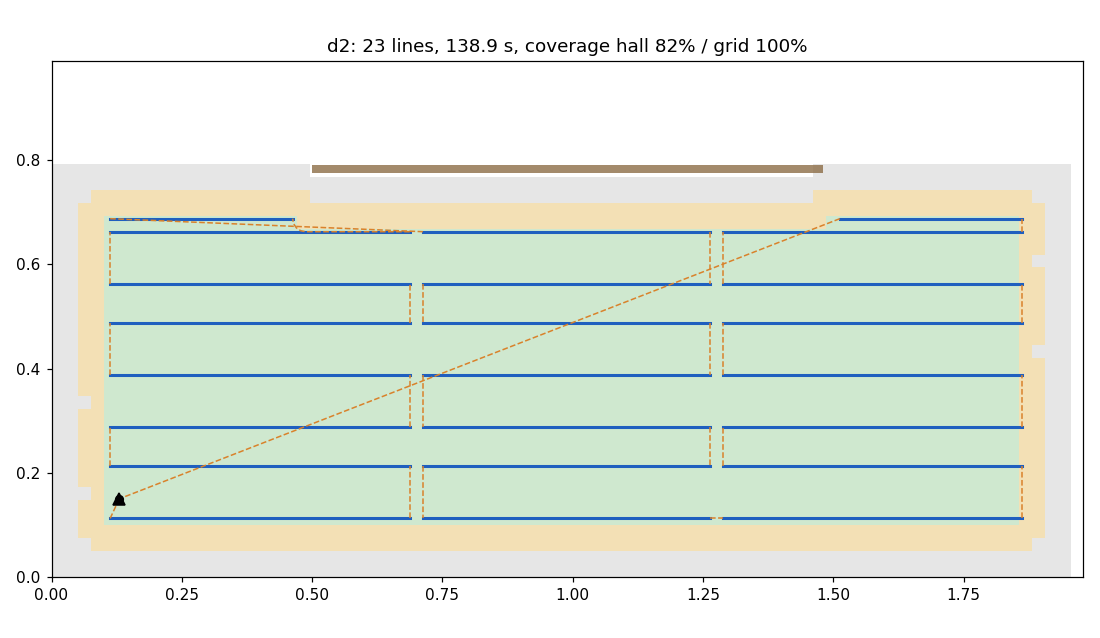
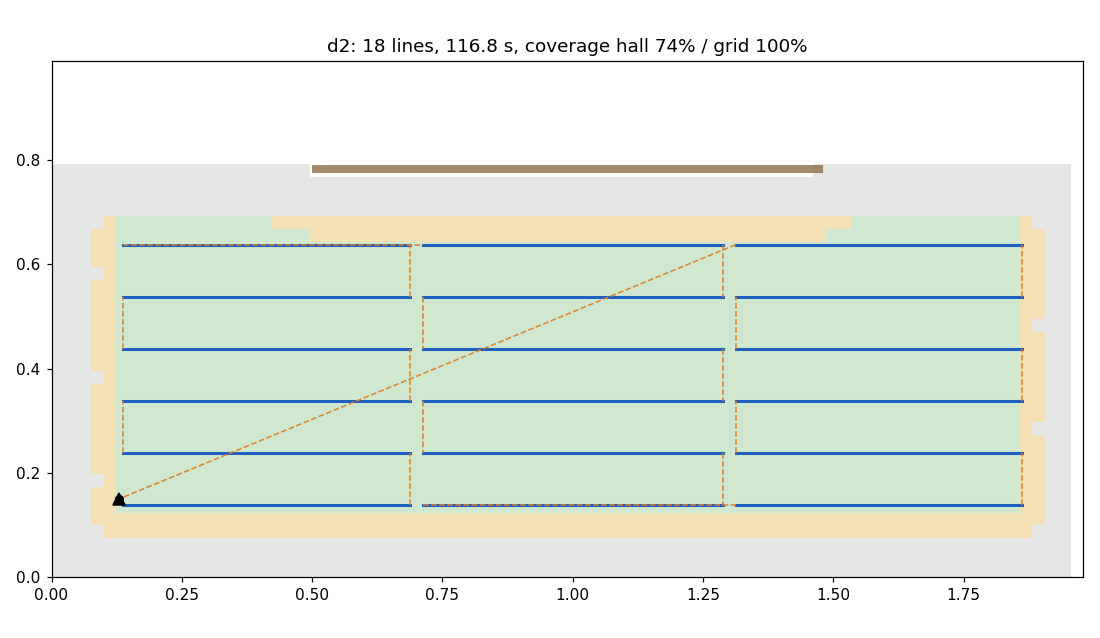
docs(cleaner): 여유 3 cm·영역 셋 기록과 headless 비교
- docs/report_2026-11-25_cleaner_three_regions.md: 닿은 곳, 경로 규칙, 관제 결함 셋, headless v7 60판·d2 20판, 시험과 느슨해진 기준, 남은 것
- docs/청소_로봇.md: 방법, 파라미터, 결과, 운영 설명을 지금 경로에 맞춤
- docs/img/coverage_v7.png, coverage_d2.png: 지금 경로

diff --git a/docs/report_2026-11-25_cleaner_three_regions.md b/docs/report_2026-11-25_cleaner_three_regions.md
@@ -1,0 +1,176 @@
+# 청소 로봇: 벽·진열대 여유 3 cm, 영역 셋, 짧은 줄 없애기, 비킬 자리와 집으로 가는 길 고침 (2026-11-25)
+
+브랜치 `feat/cleaner-region-wait-2026-11-25`(7637fdce 위). main에는 합치지 않았다. 앞 기록은
+`docs/report_2026-11-25_cleaner_region_wait.md`이고, 경로와 관제의 지금 설명은 `docs/청소_로봇.md`다.
+
+사용자 요청(11-25, Gazebo에서 청소 로봇이 진열대에 닿은 뒤):
+
+- "여유를 더두게 하면되잖아 혹시 도크때문에그런가?"
+- "영역을 나누니까 너무 회전이 많아보여 그냥 통로 왼쪽 기준 넓은 공간 구역 하나 그리고 통로쪽 위아래로 하나씩해서 총3개로"
+- "0번 6번 27번같은 짧은 구간은 왜있는거야? 너무 쓸데없이 움직이는거같은데"
+
+## 요약
+
+- **여유:** 청소 경로가 벽과 진열대에서 3 cm(전 1 cm) 떨어진다. 다른 구역 경계와 `keepout_extra`는 1 cm 그대로다.
+  v7 경로와 진열대 사이 최소 거리가 0.0934 m에서 0.1131 m로 늘었다(몸과의 틈 1.0 cm → 3.0 cm).
+- **영역:** v7은 지도 `clean_regions`에 적은 사각형 셋이다: 진열대 서쪽 넓은 곳, 위 통로, 아래 통로.
+- **줄:** 0.20 m보다 짧은 줄과 다른 줄이 이미 덮는 곳만 덮는 줄은 긋지 않는다. 0.60 m보다 긴 줄은 방향을 바꾸지
+  않고 이어지는 구간으로 나눈다. v7은 28줄 139.0 s에서 14줄 83.5 s가 됐다(혼자 도는 한 바퀴, 회전 제외).
+- **관제 결함 셋을 고쳤다.** 비킬 자리를 곧은 거리로 골라 진열대 건너편으로 돌아가던 것, 운반 로봇이 쥔 지점
+  옆에 선 채 집으로도 피하지 못하던 것, 집으로 가는 곧은 길이 주차한 운반 로봇 옆을 지나면 집에 가지 못하던 것.
+- **headless v7 기본값(운반 2 + 청소 1, seed 1~60), 전 → 지금:**
+  - 첫 바퀴 시간 평균 370.0 s → 298.0 s, 덮은 비율 평균 0.970 → 0.962, 한 바퀴를 다 끝낸 판 41 → 39
+  - 운반 지연 평균 2.7 s → 5.2 s, 중앙값 1.1 s → 1.6 s, 90 % 10.5 s → 14.7 s, 최대 13.8 s → 26.8 s
+  - 불변식 위반 3판(I8_NODE) → 0판, 교착 0 → 0
+- **headless d2 기본값(seed 1~20), 전 → 지금:** 주문을 못 끝낸 판 5 → 0, 교착 5 → 0, 위반 5판 → 0판,
+  덮은 비율 평균 0.778 → 0.937, 운반 지연 평균 7.3 s(끝낸 15판) → 0.9 s(20판).
+- 운반 지연이 는 까닭은 여유를 키워 진열대 동쪽 끝과 WORK 도크 사이가 닫혔기 때문이다. 청소 로봇에게 남쪽 통로가
+  진열대 틈으로만 드나드는 막다른 곳이 됐다(6절).
+- 느슨해진 기준은 5절에 모았다.
+
+## 1. Gazebo에서 진열대에 닿은 곳
+
+- 닿은 곳은 남쪽 진열대 동쪽 끝(x = 1.56)과 WORK 도크 구역(x = 1.78) 사이 22 cm 길이다. 전 판은 줄 6에서 줄 8로
+  갈 때 이 길을 지났다.
+- 몸 원 지름이 16.6 cm라 한가운데로 가도 양쪽에 2.7 cm씩 남는다. 여유 1 cm 격자에서는 이 길에 칸 줄 하나
+  (x = 1.6625)만 열려 있었고, 그 줄에서 몸과 진열대 끝 사이는 1.95 cm다.
+- 그래서 사용자 질문의 답은 "닿은 것은 진열대 끝이고, 길을 그만큼 좁게 만든 것은 도크 구역 경계"다. 도크에 선 운반
+  로봇의 몸이 구역 경계까지 오므로 경계 쪽으로 붙여 지날 수도 없다.
+
+## 2. 경로 규칙 (`coverage.py`, 지도 `clean_regions`)
+
+- `Params.solid_margin_m`(0.03): 벽과 진열대에서 두는 여유. `margin_m`(0.01)은 다른 구역 경계와 `keepout_extra`에만 쓴다.
+  격자를 키울 때와 둥근 경로를 검사할 때 같은 값을 쓴다(`segment_slack`).
+  - 0.04 이상이면 남쪽 진열대 사이 틈(26 cm)까지 닫혀 남쪽 통로 229칸에 닿지 못한다. 0.03이 이 지도에서 쓸 수 있는
+    가장 큰 값이다(격자 2.5 cm 기준).
+  - 진열대 동쪽 끝과 WORK 도크 사이 길은 0.03에서 닫힌다. 서쪽 입구(19.7 cm)는 0.01에서도 닫혀 있었다.
+- 지도 `clean_regions`: 사각형 목록. 순서가 영역 순서이고, 어느 사각형에도 들지 않은 빈칸은 마지막 영역이 된다.
+  지도 밖으로 나가거나 서로 겹치면 지도를 읽을 때 거절한다. 없는 지도(d2)는 전처럼 폭 0.60 m 띠로 나눈다.
+  v7 값은 `[0, 0, 0.65, 0.98]`, `[0.65, 0.3675, 1.98, 0.98]`, `[0.65, 0, 1.98, 0.3675]`다.
+- `Params.min_line_m`(0.20): 이보다 짧은 줄은 긋지 않는다. 전 판의 짧은 줄은 폭 0.60 m 띠가 진열대 틈과 벽 쪽
+  튀어나온 칸을 잘라 생긴 조각이었다(v7 28줄 중 9줄이 0.20 m 미만, 가장 짧은 것 2.5 cm).
+- `needed_lines`: 다른 줄이 이미 덮는 청소 격자 빈칸만 덮는 줄은 짧은 것부터 뺀다. 셀 가장자리에서 옆 줄과 2.5~5 cm만
+  떨어진 줄이다. 기준을 HALL 바닥(몸이 가장자리로 더 덮는 칸 포함)으로 바꾸는 것도 해 봤지만 쓰지 않았다(4절).
+- `Params.max_line_m`(0.60): 이보다 긴 줄은 길이가 같은 구간으로 나눈다. 구간은 같은 칸에서 끝나고 시작한다.
+  통로 줄을 1.0~1.2 m 한 줄로 보내면 운반 로봇과 겹칠 때마다 긴 줄을 통째로 거두고 그 줄이 쥔 지점도 많아,
+  seed 1~20에서 운반 지연이 평균 11.3 s, 최대 74.5 s였다. 나눈 뒤 8.7 s, 71.0 s였고 3절의 두 결함을 고친 뒤 지금 값이 됐다.
+- 줄 순서: 영역 안에서 지금 자리에서 격자 거리로 끝이 가장 가까운 줄부터, 같으면 짧은 줄부터.
+- 결과(기본 파라미터, 혼자 도는 한 바퀴):
+
+| | v7 전 | v7 지금 | d2 전 | d2 지금 |
+|---|---|---|---|---|
+| 영역 / 셀 | 3 / 12 | 3 / 4 | 3 / 5 | 3 / 3 |
+| 줄(가장 긴 줄 / 가장 짧은 줄) | 28 (0.575 / 0.025 m) | 14 (0.600 / 0.200 m) | 23 (0.575 / 0.350 m) | 18 (0.575 / 0.550 m) |
+| 줄 / 이동 길이 | 9.775 / 6.906 m | 6.900 / 3.124 m | 12.600 / 4.064 m | 10.050 / 3.969 m |
+| 한 바퀴(회전 제외) | 139.0 s | 83.5 s | 138.9 s | 116.8 s |
+| 커버율, HALL 바닥 | 68.4 % | 58.3 % | 82.5 % | 74.0 % |
+| 커버율, 청소 격자(줄만) | 100 % (99.9 %) | 99.7 % (98.2 %) | 100 % (100 %) | 100 % (100 %) |
+| 청소 격자 빈칸 | 976 | 774 | 1663 | 1525 |
+| 경로와 벽 / 진열대 사이 최소 거리 | 0.1125 / 0.0934 m | 0.1175 / 0.1131 m | 0.1125 / 0.0933 m | 0.1175 / 0.1375 m |
+
+- 그림: `docs/img/coverage_v7.png`, `docs/img/coverage_d2.png`.
+
+## 3. 관제에서 고친 결함 셋 (`traffic/zone/cleaning.py`)
+
+- **비킬 자리를 곧은 거리로 골랐다.** 서쪽 넓은 곳 맨 아랫줄 동쪽 끝 (0.58, 0.31)에서 곧은 거리로 가장 가까운 띠 밖
+  자리는 남쪽 진열대 건너편 (0.69, 0.21)이었다. 곧은 거리는 14 cm지만 실제 길은 진열대 틈을 돌아 1.5 m다. 청소 로봇이
+  그 길로 가다 운반 로봇이 쥔 E-3 위에 섰다(seed 2, `I8_NODE`). 전 판에도 있던 결함이다(seed 1~60 중 26, 30, 45에서
+  `I8_NODE`). 이제 청소 격자 위로 가는 거리(`coverage.distances`)가 짧은 순서로 고른다.
+- **운반 로봇 길 위에서 집으로도 피하지 못했다.** 청소 로봇이 O_OUT 옆 (0.23, 0.48)에 선 동안 OUT 도크의 운반 로봇이
+  O_OUT → E-3 길을 받았다. 띠 밖 자리가 없어 집으로 가려 했지만, 집 다리의 출발 자리가 O_OUT에서 `clean_reach_m` 안이라
+  "O_OUT is held by pode1"로 거절됐다. 운반 로봇은 30 s 서 있다가 O→O_OUT을 60 s 막힌 길로 표시했고, 다른 운반
+  로봇이 OUT 도크에서 나오지 못해 세 번째 로봇이 급행에 섰다(seed 5: 운반 지연 71 s, `I5_STANDING`).
+  - 집으로 피하는 다리는 남이 쥔 지점에서 멀어지기만 하면 그 지점을 쥐지 않고 떠난다. 다가가면 전처럼 막는다.
+  - 비켜 주는 운반 로봇의 base(받은 구간)는 띠와 같은 기준으로 본다: 가로지르지 않고, `clean_yield_band_m` 안에
+    `clean_conflict_reach_m` 밖으로 나가고, 다시 닿지 않는다. 전에는 base에서 `clean_conflict_reach_m` 안에서
+    출발하는 다리를 모두 막았다.
+  - 피하는 다리가 아닌 다리(줄, 나가기, 다 끝낸 바퀴의 돌아오기)의 검사는 그대로다.
+- **집으로 가는 곧은 길이 주차한 운반 로봇 옆을 지나면 집에 가지 못했다.** d2는 집(P-1)과 주차 자리 P-2가 0.25 m 떨어져
+  있다. 주문이 끝나 운반 로봇이 P-2에 주차한 뒤, 청소 로봇이 동쪽에서 마지막 줄을 끝내면 집으로 가는 곧은 길이 P-2에서
+  9.6 cm를 지난다. 이 다리는 "P-2 is held by ..."로 계속 거절돼 청소 로봇이 HALL에 서 있었다(d2 seed 1~20 중 6, 9, 20).
+  전 판은 마지막 줄이 다른 곳에서 끝나 드러나지 않았다.
+  - 집으로 가는 길이 남이 쥔 지점 때문에 막히면, 남이 쥔 지점들에서 `clean_reach_m` + `clean_yield_margin_m`(0.23 m) 넘게
+    떨어진 청소 격자 길을 찾는다(`coverage.transit`의 `away`). 위 경우에는 P-1 위쪽으로 돌아 내려오고 P-2와 0.236 m 떨어진다.
+  - 서 있는 자리나 끝 구간 옆이라 돌아갈 수 없는 지점은 빼고 찾는다. 길이 없으면 곧은 길을 그대로 두어 전처럼 판정이 미룬다.
+  - 돌아가는 길도 겹침 판정을 전부 그대로 거친다.
+
+## 4. 결과: headless (`tools/cleaner_defer_sweep.py`, 운반 2 + 청소 1)
+
+v7 기본값은 같은 seed 1~60을 코드만 바꿔 돌렸다. 운반 지연은 청소 로봇이 없는 같은 seed와 견준 마지막 출고 시각 차이다.
+
+| | 끝낸 줄(첫 바퀴) | 다 끝낸 판 | 덮은 비율 | 첫 바퀴 | 운반 지연 평균 / 중앙값 / 90 % / 최대 | 20 s 넘는 판 | 위반 |
+|---|---|---|---|---|---|---|---|
+| 전 판(7637fdce) | 24~28/28 | 41 | 0.970 | 370.0 s | 2.7 / 1.1 / 10.5 / 13.8 s | 0 | 3 (I8_NODE) |
+| 영역 셋 + 짧은 줄 없애기, 여유 1 cm, 비킬 자리 고침 | 14~16/16 | 41 | 0.951 | 303.9 s | 3.2 / 1.0 / 11.6 / 19.0 s | 0 | 0 |
+| 위에 여유 3 cm | 12~14/14 | 39 | 0.962 | 300.2 s | 9.4 / 4.3 / 26.6 / 73.4 s | 8 | 2 (I5_STANDING) |
+| 위에 집 피난 고침 | 12~14/14 | 39 | 0.962 | 298.4 s | 5.3 / 1.6 / 14.7 / 26.8 s | 3 | 0 |
+| 위에 집으로 가는 길 고침(지금) | 12~14/14 | 39 | 0.962 | 298.0 s | 5.2 / 1.6 / 14.7 / 26.8 s | 3 | 0 |
+
+- 영역과 줄 규칙만으로는 운반 지연이 전 판과 같다(둘째 줄). 지연은 여유 3 cm에서 늘었고, 집 피난을 고쳐 절반쯤 줄었다.
+- d2 기본값(seed 1~20, 청소 로봇이 없는 같은 seed와 견줌):
+
+| | 끝낸 줄(첫 바퀴) | 덮은 비율 | 첫 바퀴(끝낸 판) | 운반 지연 평균 / 중앙값 / 최대 | 주문 못 끝냄 | 교착 | 위반 |
+|---|---|---|---|---|---|---|---|
+| 전 판(7637fdce) | 4~20/23 | 0.778 | 634.8 s (15) | 7.3 / 2.5 / 47.2 s (끝낸 15판) | 5 | 5 | 5 (I8_NODE 3, I5_STANDING 2) |
+| 지금 | 16~18/18 | 0.937 | 470.1 s (20) | 0.9 / 0.0 / 46.6 s | 0 | 0 | 0 |
+
+  - 지금 판에서 17판은 첫 바퀴에 16줄을 끝낸다. 남는 두 줄은 운반 로봇 주차 자리 P-3 옆 줄이고 다음 바퀴로 넘어간다.
+  - 집으로 가는 길을 고치기 전에는 20판 가운데 3판(seed 6, 9, 20)이 주문이 끝난 뒤 집에 가지 못해 바퀴를 끝내지 못했다(3절).
+- 다른 조건(seed 1~5): 청소 로봇 혼자 v7 14/14줄, 평균 109.2 s, 덮은 비율 0.995. d2 18/18줄, 평균 143.0 s, 0.999.
+  겹침 판정을 푼 `r3_only`(v7)는 10~14/14줄이고 seed 1이 148.6 s에 교착한다(6절).
+- 채택하지 않은 것(같은 60 seed):
+  - 벽 여유만 2.5 cm로 따로 두기(몸과 벽 사이 2.9 cm, 전 판과 같음): 운반 지연 평균 9.6 s, 최대 86.7 s, 20 s 넘는 판 11.
+  - `min_line_m` 0.25(Q1 옆 20 cm 줄을 빼려던 것): 그 자리에 27.5 cm 줄이 대신 생기고 지연은 5.2 / 1.6 / 14.7 / 27.1 s로 같다.
+  - 겹치는 줄을 빼는 기준을 청소 격자 빈칸에서 HALL 바닥으로 바꾸기(d2 가장자리 줄 둘을 살려 HALL 바닥 커버율 74.0 % →
+    76.6 %): v7 경로는 같다. d2에서는 살아난 27.5 cm 줄이 WORK 도크 진입로(N_W 바로 위)에 놓여, 청소 로봇이 도크에서
+    나오려는 운반 로봇과 도크를 기다리는 운반 로봇 사이에 갇혔다. d2 기본값 seed 1~5 가운데 3판에서 주문이 끝나지 않았다.
+
+## 5. 시험과 느슨해진 기준
+
+- 새 시험
+  - `test_coverage.py`: 지도 영역 셋과 순서, 줄이 한 영역 안, 사각형 밖 빈칸은 마지막 영역, `clean_regions` 겹침·범위 거절,
+    가장 짧은 줄과 가장 긴 줄, 긴 줄을 나눠도 덮는 칸이 같음, 줄마다 혼자 덮는 빈칸, 겹치는 줄 빼기,
+    벽·진열대 여유와 구역 여유가 따로 지켜짐.
+  - `test_zone_clean_wait.py`: 비킬 자리는 진열대 건너편이 아니라 가는 길이 짧은 곳.
+  - `test_zone_clean_conflict.py`: 피하는 다리는 남이 쥔 지점을 떠날 수 있음, 보통 다리는 전처럼 막힘, 그 지점에 다가가는
+    피하는 다리는 막힘, base를 따라가는 피하는 다리는 막힘.
+    집으로 가는 길은 남이 쥔 지점을 돌아감, 막는 지점이 없으면 곧은 길 그대로, 돌아갈 길이 없으면 곧은 길로 두고 미룸.
+- 결과(전체): fleet_core 1630 passed, 7 xfailed. tools 310 passed, 17 skipped. fake_robots 1011 passed, 12 skipped, 30 xfailed.
+- **느슨해진 기준**
+  1. `test_lines_alone_cover_the_clean_grid`: 줄만으로 덮는 청소 격자 하한 0.99 → 0.98. v7은 0.982다. 0.20 m보다 짧은 줄을
+     뺐기 때문이고, 그 자리는 줄 사이 이동이 대부분 지난다(이동을 넣으면 0.997).
+  2. `test_world_cleaner.py`의 물체 자리: 위 통로 (0.90, 0.5625) → 서쪽 넓은 곳 (0.35, 0.5875). 여유 3 cm에서는 위 통로에서
+     중심이 설 수 있는 폭이 10 cm라 지름 10 cm 물체를 돌아갈 자리가 없다(전 자리에서 우회 0번, 우회 실패 36번). 기다림 → 우회 →
+     빈틈 시험은 넓은 곳에서 그대로 한다.
+  3. `_clean_conflict`: 집으로 피하는 다리에 한해 남이 쥔 지점 검사와 base 검사가 3절처럼 바뀌었다(멀어지면 통과,
+     base는 띠와 같은 기준).
+     집으로 가는 길을 돌아가게 한 것은 검사를 바꾸지 않는다(돌아가는 길도 같은 검사를 거친다).
+  4. 결과 숫자: HALL 바닥 커버율 v7 68.4 % → 58.3 %, d2 82.5 % → 74.0 %. headless 운반 지연 평균 2.7 s → 5.2 s,
+     최대 13.8 s → 26.8 s. 덮은 비율 0.970 → 0.962. 20 s 넘게 늦은 판 0 → 3(60판 중).
+- 경로 모양이 바뀌어 고친 시험(기준은 같다): 줄을 고르는 도우미 `World.east_line()`(위 통로에서 동쪽으로 가는 가장 긴 줄)을
+  세 시험이 쓰고, 멈춤 오차 시험의 자리를 (0.598, 0.322)로 옮겼다(진열대에서 떨어질 거리 0.113 m 안). `region_width_m: 0`
+  시험은 d2에서 `max_line_m: 0`과 함께 본다.
+
+## 6. 남은 것
+
+- **남쪽 통로가 청소 로봇에게 막다른 곳이 됐다.** 진열대 동쪽 끝과 WORK 도크 사이가 닫혀, 드나드는 길이 진열대 틈
+  (x = 1.11) 하나다. 청소 로봇이 틈 동쪽(Q2·Q1 쪽, 깊이 0.75 m)에 있을 때 운반 로봇이 남쪽 통로로 가는 길을 받으면,
+  청소 로봇은 운반 로봇이 오는 쪽으로 되돌아 틈으로 빠져야 한다. 그동안 운반 로봇은 Q2를 받지 못해 충전 칸에서
+  2~4 s 기다리고, headless의 운반 로봇은 막힌 남쪽 통로 대신 위 통로로 돌아가려다 되돌아온다(seed 16: 한 번에 약 10 s).
+  전 판은 이때 진열대 동쪽 끝 길로 0.3 m만 가서 비켰다. 고칠 방법 후보(정하지 않았다):
+  1. 지금대로 둔다. 운반 지연 평균 +2.5 s(한 판 약 200 s 가운데), 최대 26.8 s.
+  2. 틈 동쪽 줄(9, 10, 11)은 남쪽 통로로 가는 운반 로봇이 없을 때만 들어가고, 있으면 그 줄을 뒤로 미룬다.
+     운반 지연은 줄고 그 줄의 청소는 늦어진다.
+  3. WORK 도크가 비어 있을 때만 진열대 동쪽 끝 길을 도크 쪽으로 붙여 지난다. 청소 로봇이 도크 구역에 들어가지
+     않는다는 규칙을 바꿔야 한다.
+- 겹침 판정을 푼 조건(`r3_only`: 남이 쥔 지점과 base를 보지 않음)은 이 경로에서 교착한다(v7 seed 1~5 가운데 1판, 전 판 0판).
+  운반 로봇이 남쪽 통로로 오는 중에 청소 로봇이 틈 동쪽으로 들어가 갇힌다. 판정 완화(계획 Q17)는 막다른 곳 대책 없이는 쓸 수 없다.
+- d2의 WORK 도크 진입로(W_Q, N_W, X_W 사이)도 같은 종류의 막다른 곳이다. 지금 경로에는 그 안으로 들어가는 줄이 없다.
+- 서쪽 넓은 곳에서 운반 로봇이 O_OUT → E-3으로 비스듬히 지나면 띠(반폭 0.235 m + 0.05 m)가 넓은 곳을 거의 다 덮어
+  비킬 자리가 없다. 이때 청소 로봇은 집으로 간다(seed 5: 청소 로봇은 37 s를 잃고 운반 로봇은 기다리지 않는다).
+- 위 통로와 아래 통로에서는 중심이 설 수 있는 폭이 10 cm라, 줄 위에 놓인 지름 10 cm 물체를 우회하지 못하고 그 줄을
+  미룬다(5절의 세계 시험).
+- HALL 바닥 기준 커버율이 68.4 %에서 58.3 %로 내려갔다. 남는 41.7 %는 벽 가장자리 14.6 %, 진열대 둘레 11.2 %,
+  충전 칸 `keepout_extra` 안과 둘레 7.5 %, 다른 구역 경계 쪽 6.0 %, 그 밖 2.4 %다. 지금 여유에서 몸이 닿을 수 있는
+  바닥(HALL 바닥의 60.7 %) 기준으로는 96.0 %를 덮는다. 가장자리는 FollowWall 한 바퀴(D3 브랜치)가 맡을 몫이다.
+- 이 판은 아직 Gazebo로 보지 않았다.
